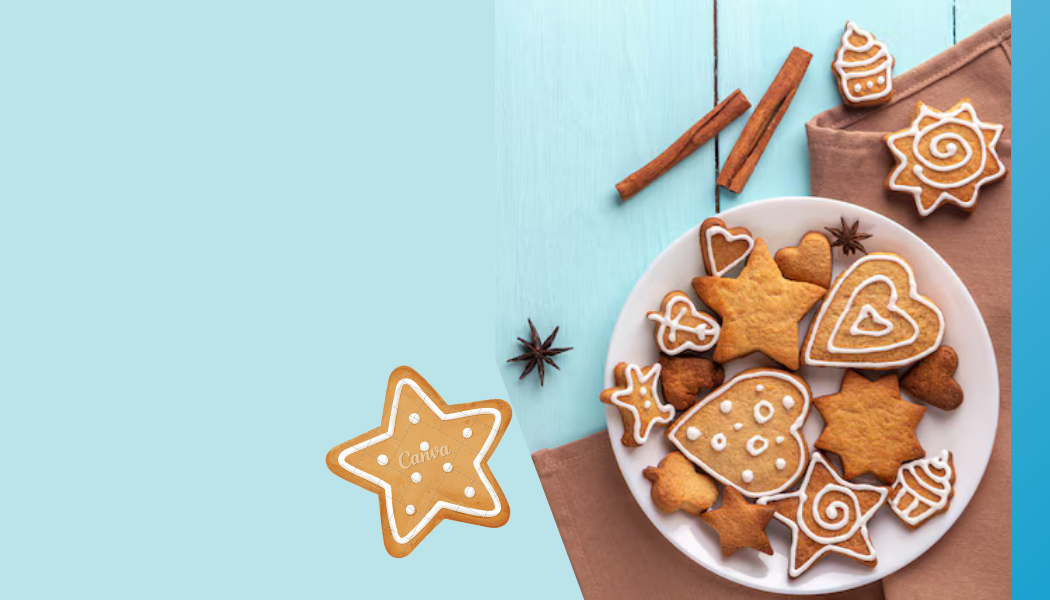
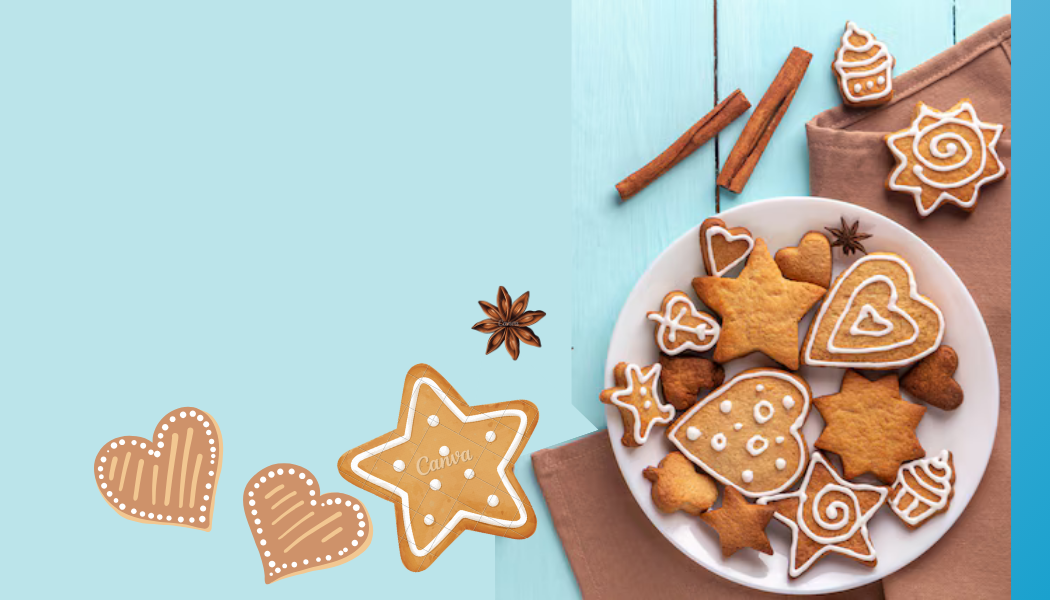
up

Changed region(s): [[0.0914, 0.48, 0.579, 0.99], [0.5486, 0.99, 0.579, 1.0]]

diff --git a/styles/style.css b/styles/style.css
@@ -163,7 +163,7 @@ ul {
   background-size: cover; /*Cover: ele adapta a imagem em todo, de acordo com o tamanho do navegador*/
 }
 #img2 {
-  background: url(/imagens/biscoitosGengibre.png) center no-repeat fixed;
+  background: url(/imagens/biscoitosGengibre1.png) center no-repeat fixed;
   background-size: cover; /*Cover: ele adapta a imagem em todo, de acordo com o tamanho do navegador*/
   min-width: 300px;
   max-width: 1000px;
